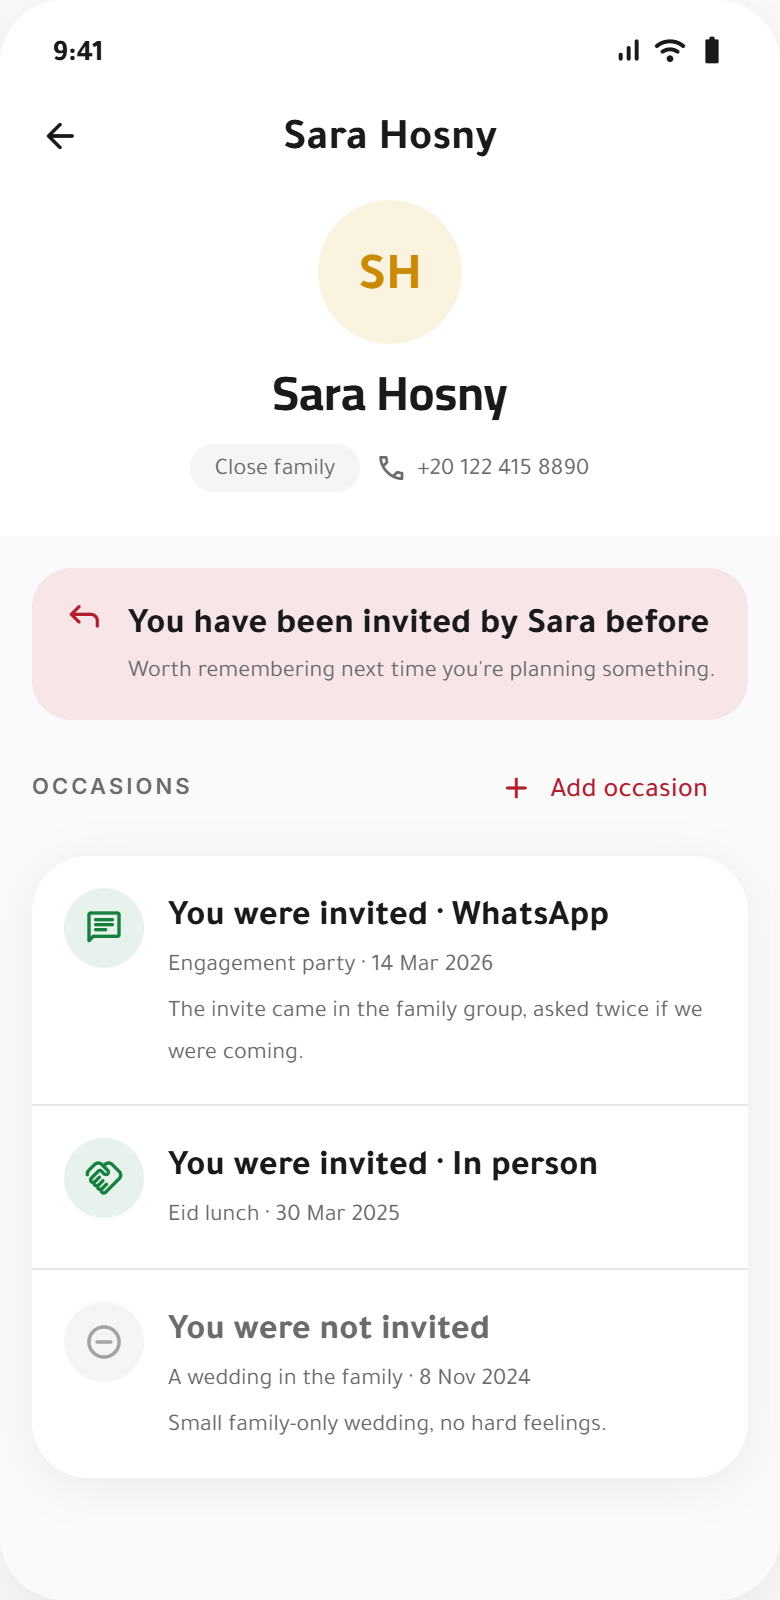
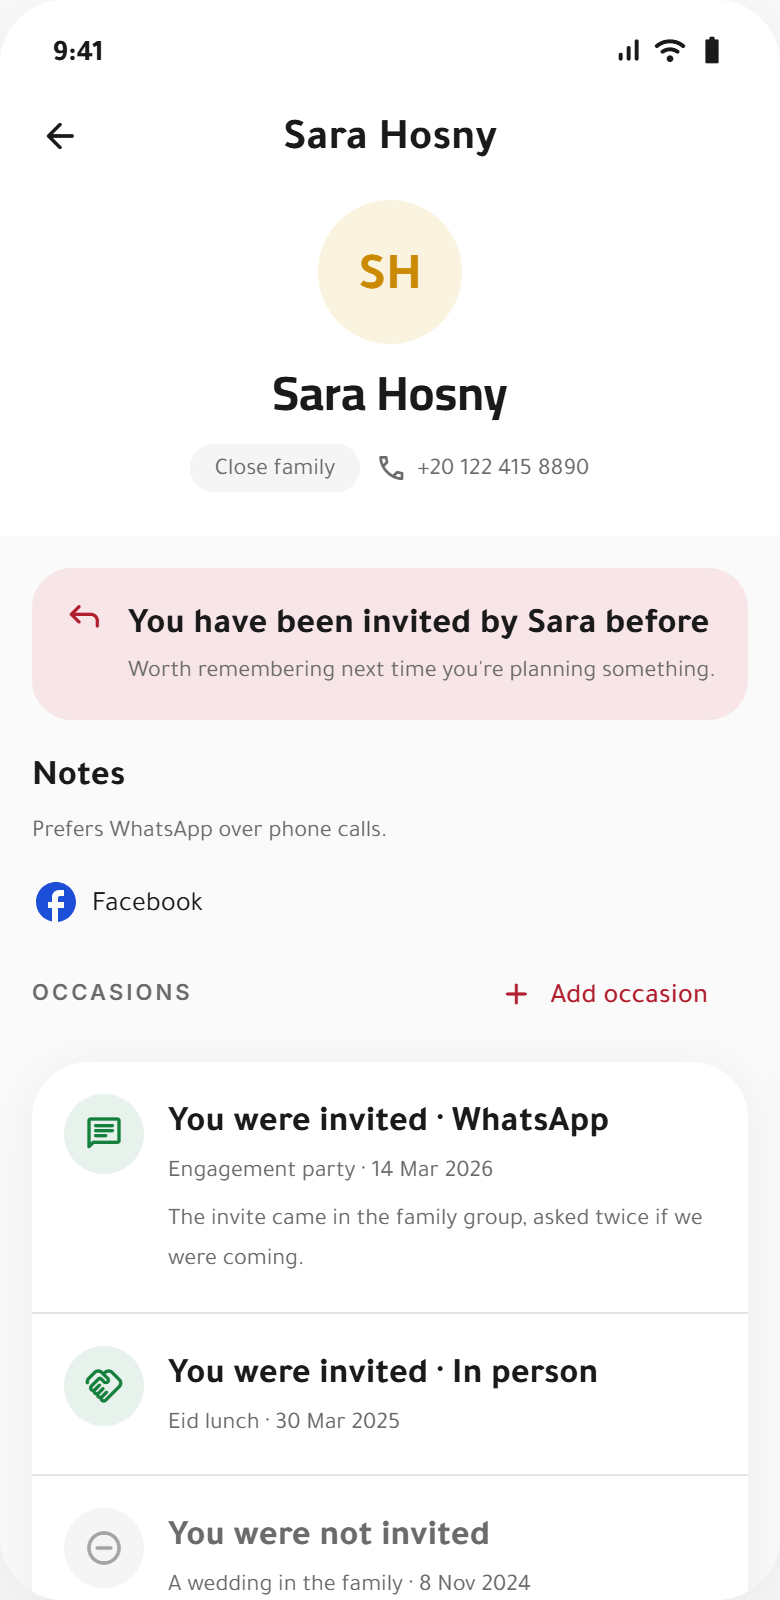
sync: update showcase from source

diff --git a/README.md b/README.md
@@ -1,5 +1,7 @@
 <div align="center">
 
+<a href="https://apps.apple.com/us/app/your-space-gifts-events/id6797512595"><img src="https://img.shields.io/badge/App%20Store-Download-0D96F6?style=for-the-badge&logo=appstore&logoColor=white" alt="Download on the App Store"></a>
+
 # 🔒 Your Space — Showcase Repository
 
 ### This repo documents a real client project. The source code is private and stays that way.
@@ -117,7 +119,7 @@
 <sub>Add person — step 3/4</sub>
 </td>
 <td align="center" width="200">
-<img src="Your-Space-Mobile/doc/design/screenshots/15-add-person-wizard-step4.png" width="180" alt="Add person wizard — step 4 of 4 (notes)"><br>
+<img src="Your-Space-Mobile/doc/design/screenshots/15-add-person-wizard-step4.png" width="180" alt="Add person wizard — step 4 of 4 (notes and Facebook URL)"><br>
 <sub>Add person — step 4/4</sub>
 </td>
 </tr>
@@ -212,12 +214,14 @@ Your-Space/
 │   └── CLAUDE.md + .claude/rules/    backend-specific standards (authoritative for this folder)
 └── Your-Space-Mobile/          # Flutter app — see its own README.md
     ├── lib/
-    │   ├── core/                    shared infrastructure (DI, networking, routing, theme)
+    │   ├── core/                    shared infrastructure (DI, networking, routing, theme,
+    │   │                             local drift database, offline sync engine)
     │   └── features/                 auth, onboarding, home, groups, people, classification,
     │                                 events, settings (feature-first, Clean Architecture)
     ├── test/                        mirrors lib/ structure
     ├── assets/translations/          en.json, ar.json (easy_localization)
     ├── doc/handoffs/                 dated engineering handoff notes
+    ├── doc/local-first-sync-design.md  design of the local-first sync mechanism
     ├── doc/design/                    exported design prototypes (Auth Flow, Core Screens,
     │                                   Event Screens `.dc.html`) + design-conformance-fixes.md
     │                                   drift log between the prototypes and shipped code
@@ -236,6 +240,8 @@ Your-Space/
 | Mobile framework | Flutter **3.44.8** (pinned via FVM), Dart `^3.12.2` | `.fvmrc`, `pubspec.yaml` |
 | Mobile state management | `flutter_bloc` (Cubit) **^9.1.1** | `pubspec.yaml` |
 | Mobile DI | `get_it` + `injectable` | `pubspec.yaml` |
+| Mobile local database | `drift` **^2.35.0** + `drift_flutter` **^0.3.1** (on-device SQLite) — offline cache and write queue | `pubspec.yaml`, `lib/core/database/` |
+| Mobile connectivity | `connectivity_plus` **^7.3.1** — triggers the sync engine on reconnect | `pubspec.yaml`, `lib/core/sync/sync_service.dart` |
 | Cross-cutting | Bilingual (English/Arabic, RTL-aware) end to end | both `CLAUDE.md` files, Architecture rule 8 (backend) |
 
 Full dependency lists with every package and version live in each project's own README — Backend tech stack / Mobile tech stack.
@@ -248,13 +254,14 @@ The full-stack feature set, as actually implemented (backend controllers + mobil
 - **Onboarding** — first-run onboarding carousel before the app lands on Home.
 - **Home dashboard** — at-a-glance stats screen (`HomeStatsCubit`) showing Groups/People/Events counts with an empty state and quick-nav cards into each section.
 - **Groups & sub-groups** — CRUD for contact circles, plus nested sub-groups within a group (`groups/{id}/subgroups`), searchable and paginated.
-- **People** — CRUD for personal contacts, each assigned to a Group, via a multi-step person wizard (basic identity → classification & location → relationships → notes). Includes server-side person search, inline "+ Add new" creation of a Group/Sub-group/Governorate/City/Neighborhood directly from the wizard's picker steps without leaving the flow, and multiple profile photos per person (`persons/{id}/images`).
+- **People** — CRUD for personal contacts, each assigned to a Group, via a multi-step person wizard (basic identity → classification & location → relationships → notes). Includes server-side person search, inline "+ Add new" creation of a Group/Sub-group/Governorate/City/Neighborhood directly from the wizard's picker steps without leaving the flow, and multiple profile photos per person (`persons/{id}/images`). A person can also carry an optional Facebook profile URL (entered on the wizard's Notes step, shown as a tappable link on their details screen), and tapping any real photo avatar opens it full-screen (pinch-to-zoom).
 - **Person relationships** — link people to one another with a typed relationship (`persons/{id}/relationships`), editable inline in the wizard.
 - **Location reference data** — a Governorate → City → Neighborhood hierarchy (`governorates`, `governorates/{id}/cities`, `cities/{id}/neighborhoods`), used to tag a person's location and to slice guest lists by area.
 - **Events** — CRUD for occasions being planned, with a live guest-count breakdown (not invited / invited / skipped).
 - **Guest-List / Invitation Planner** — bulk-add to an Event by People, Group, Sub-group, Governorate, City, or Neighborhood; per-guest status transitions (invite / skip / revert); and a progress summary per event.
 - **Reciprocity** — a per-person log of past occasions where *they* invited the user, plus a "reciprocity suggestions" endpoint/screen surfacing contacts who've invited the user before but haven't been added to the current event yet.
 - **User settings & profile** — profile edit (name, avatar), and account deletion, on both sides. The backend also exposes per-user preference flags (e.g. toggling reciprocity suggestions) via `usersettings`, but the mobile Settings screen does not yet surface a toggle for it — that endpoint currently has no mobile UI.
+- **Local-first sync (mobile)** — the app keeps a local SQLite database (`drift`) and reads from it first, so lists and details open instantly and work offline. Writes are applied locally right away and queued in an outbox that is replayed to the API with retry/backoff on reconnect and while the app is in the foreground; the client then pulls only what changed via cursor-based delta endpoints (`GET persons|groups|events|governorates|cities|subgroups|neighborhoods/changes`, taking `since` and `pageSize`). Covers People, Groups, the Governorate/City/Sub-group/Neighborhood reference data, Events, event guests, person relationships and person photos; conflicts resolve last-write-wins (the data is single-owner). Auth and Settings stay network-only. Mechanism: Your-Space-Mobile/doc/local-first-sync-design.md.
 - **Role-based access control** — `User` / `StandardAdmin` / `SuperAdmin` hierarchy on the backend, with a bootstrap SuperAdmin seeder.
 - **Bilingual (EN/AR) throughout** — every user-facing entity field and every response/validation message on the backend has an Arabic counterpart resolved server-side; the mobile app mirrors this with `easy_localization` and RTL-aware layout primitives end to end.
 
@@ -302,13 +309,13 @@ The mobile app's `ApiConstants.baseUrl` (`Your-Space-Mobile/lib/core/constants/a
 Each project owns its own architecture, enforced independently and never blended (per the root `CLAUDE.md`):
 
 - **Backend** — strict layered architecture (`WebAPI → Services → Repository → Data`), physically split into separate class-library projects, with `NetArchTest` assertions enforcing the layer direction and DTO purity in CI-less local test runs. See Backend architecture.
-- **Mobile** — Clean Architecture, feature-first (`presentation → domain → data` per feature, `lib/core/` for shared infrastructure), with features never importing from other features. See Mobile architecture.
+- **Mobile** — Clean Architecture, feature-first (`presentation → domain → data` per feature, `lib/core/` for shared infrastructure), with features never importing from other features. Data is local-first: each synced feature reads from an on-device drift database (`lib/core/database/`) and writes through an outbox managed by the sync engine in `lib/core/sync/` (`SyncService`, per-feature outbox replayers and collection pullers). See Mobile architecture.
 
 The two communicate over a single contract: a versioned (`/api/v1/...`) JSON REST API with a uniform `{ success, message, errorCode, data, statusCode, timestamp, errors }` response envelope, produced by the backend's `ServiceResult<T>` and consumed by the mobile app's `unwrapServiceResult`/`ApiManager`.
 
 ## API surface
 
-Base path: `/api/v{version}/...` (currently v1), Bearer JWT auth, EN/AR via `Accept-Language`. Endpoint groups: `auth`, `groups` (+ nested `groups/{id}/subgroups`), `persons` (+ nested `persons/{id}/images`, `persons/{id}/relationships`, `persons/{id}/occasion-history`), `events` (+ nested `events/{id}/guests`), `governorates` (+ nested `governorates/{id}/cities` and `cities/{id}/neighborhoods`), `usersettings`. Full endpoint-by-endpoint tables (methods, routes, DTOs): Backend API overview.
+Base path: `/api/v{version}/...` (currently v1), Bearer JWT auth, EN/AR via `Accept-Language`. Endpoint groups: `auth`, `groups` (+ nested `groups/{id}/subgroups`), `persons` (+ nested `persons/{id}/images`, `persons/{id}/relationships`, `persons/{id}/occasion-history`), `events` (+ nested `events/{id}/guests`), `governorates` (+ nested `governorates/{id}/cities` and `cities/{id}/neighborhoods`), `usersettings`. Seven collections also expose a delta-sync pull, `GET …/changes?since=&pageSize=` (`persons`, `groups`, `events`, `governorates`, `cities`, `subgroups`, `neighborhoods`), which the mobile sync engine uses to fetch only what changed. Full endpoint-by-endpoint tables (methods, routes, DTOs): Backend API overview.
 
 ## Environment & secrets
 
@@ -319,9 +326,9 @@ Neither project commits real secrets. The backend uses `dotnet user-secrets` loc
 | Project | Framework | What's covered |
 |---|---|---|
 | Backend | xUnit + `NetArchTest` | Unit tests per service method, `WebApplicationFactory` integration tests per controller, architecture/layering assertions |
-| Mobile | `flutter_test` + `mocktail` | 53 test files mirroring `lib/`: router, storage, widgets, and per-feature repository/cubit/screen tests |
+| Mobile | `flutter_test` + `mocktail` | 104 test files mirroring `lib/`: router, storage, widgets, and per-feature repository/cubit/screen tests |
 
-Run each project's suite from inside its own folder — `dotnet test` (backend) / `flutter test` (mobile). File counts above are `find … -name` counts as of this writing (97 files under `Your-Space-Backend/YourSpace.WebAPI.Tests/`, 53 `*_test.dart` under `Your-Space-Mobile/test/`) and drift over time — treat them as indicative. Details: Backend testing / Mobile testing.
+Run each project's suite from inside its own folder — `dotnet test` (backend) / `flutter test` (mobile). File counts above are `find … -name` counts as of this writing (113 `.cs` files under `Your-Space-Backend/YourSpace.WebAPI.Tests/` excluding `bin`/`obj`, 104 `*_test.dart` under `Your-Space-Mobile/test/`) and drift over time — treat them as indicative. Details: Backend testing / Mobile testing.
 
 ## CI/CD
 
@@ -336,6 +343,8 @@ The repo-root `doc/` folder collects docs that span both projects:
 - **`doc/release-notes/`** — one numbered folder per shipped mobile version, `001_v1.0.0+4` through `007_v5.0.1+10`, each holding the Play Store release note (EN + AR) for that version.
 - **`doc/reports/`** — one-off audits (currently `account-deletion-audit-2026-09-01.md`).
 
+The mobile app's local-first sync work is documented in `Your-Space-Mobile/doc/local-first-sync-design.md` (the mechanism) and the `005-local-first-sync/` handoffs under `Your-Space-Mobile/doc/handoffs/` (delivery-plan rows 1–10, all shipped). Note the design doc's opening "Status" line still reads "approved direction, not yet built" — it predates the build; the handoffs are the record of what shipped.
+
 Each project *also* keeps its own dated handoff notes under `Your-Space-Backend/doc/handoffs/` and `Your-Space-Mobile/doc/handoffs/`, written at the time a feature landed. Treat anything time-sensitive in any `doc/` folder as a historical snapshot, not current state — the two project READMEs and the code itself are the source of truth.
 
 ## Contributing
@@ -344,14 +353,15 @@ Governed by the root `CLAUDE.md`:
 
 - Each project's own `CLAUDE.md` (plus its `.claude/rules/`, `.claude/templates/`) is the authority for everything inside its folder — never apply the backend's architecture rules/naming/anti-patterns to the mobile app or vice versa, even where a section name matches (e.g. both have a "Testing discipline" section that means something different in each).
 - A task that spans both projects (e.g. a new backend endpoint plus the mobile screen that calls it) should keep each half strictly inside its own project's conventions rather than blending them into one style.
-- Commit convention observed in history: scoped conventional-commit prefixes — `feat:`, `fix:`, `chore:`, `docs:`, `test:` — optionally suffixed with a project scope (e.g. `fix(backend):`, `feat(backend):`, `test(backend):`); plain imperative messages appear occasionally otherwise.
+- Commit convention observed in history: scoped conventional-commit prefixes — `feat:`, `fix:`, `refactor:`, `style:`, `chore:`, `docs:`, `test:` — optionally suffixed with a project scope (e.g. `fix(backend):`, `feat(backend):`, `test(backend):`); plain imperative messages also appear regularly (roughly a third of the last 60 commits).
 - Adding a new project (e.g. a web frontend): give it its own top-level folder with its own `CLAUDE.md` + `.claude/rules/` + `.claude/templates/`, and add a row to the table in the root `CLAUDE.md`.
 
 ## Known limitations / TODO
 
 - No automated CI/CD pipeline for either project.
-- No `LICENSE` file anywhere in the repo — see License.
+- No `LICENSE` file anywhere in the repo — see [License](#license).
 - No orchestration (Docker Compose, etc.) to run backend + database + mobile together with one command — each is started independently today.
+- Local-first sync resolves conflicts last-write-wins only (no merge), by design for single-owner data; Auth and Settings are deliberately network-only, and the person-details and event-details screens still refresh through a one-shot fetch plus the `DataRefreshBus` signal rather than reactive local streams.
 - See each project's own README for project-specific gaps (Backend / Mobile).
 
 ## License
